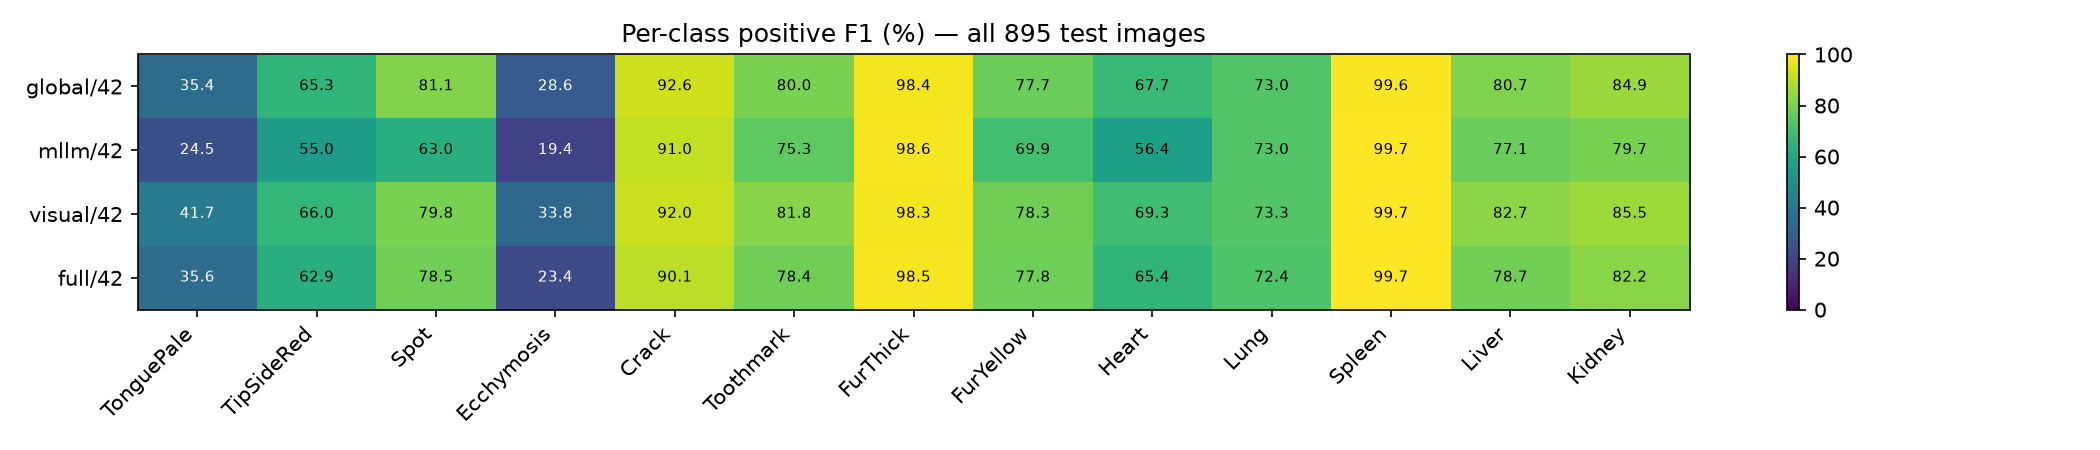
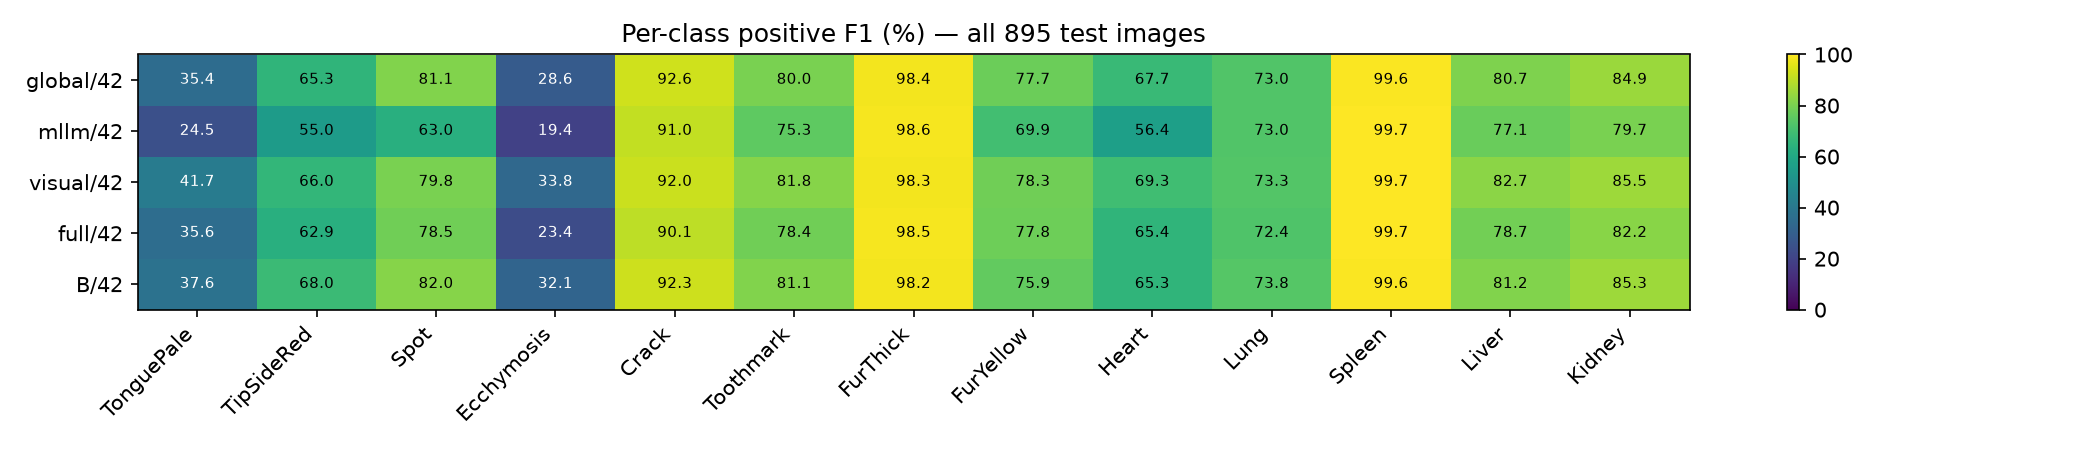
results: B seed 42 reproduction milestone

diff --git a/reports/reproduction/20261005_042629_774918_suite/reproduction_report.md b/reports/reproduction/20261005_042629_774918_suite/reproduction_report.md
@@ -13,6 +13,7 @@ code_compat 保留独立七图增强、无 ImageNet normalization、global-only 
 | mllm | 42 | 30 | 74.32 / 62.09 | 69.68 / 77.20 |
 | visual | 42 | 49 | 84.76 / 71.47 | 79.53 / 82.09 |
 | full | 42 | 96 | 83.24 / 68.15 | 76.80 / 79.70 |
+| B | 42 | 108 | 85.31 / 70.88 | 78.66 / 81.01 |
 
 六组消融和主模型多 seed 的运行状态见 `run_status.json`；未完成时不宣称整个复现完成。
 TVMoE 等外部实现/同 split 逐图预测、论文 Sankey 8×5 公式仍缺失，不能复现对应比较和图。
